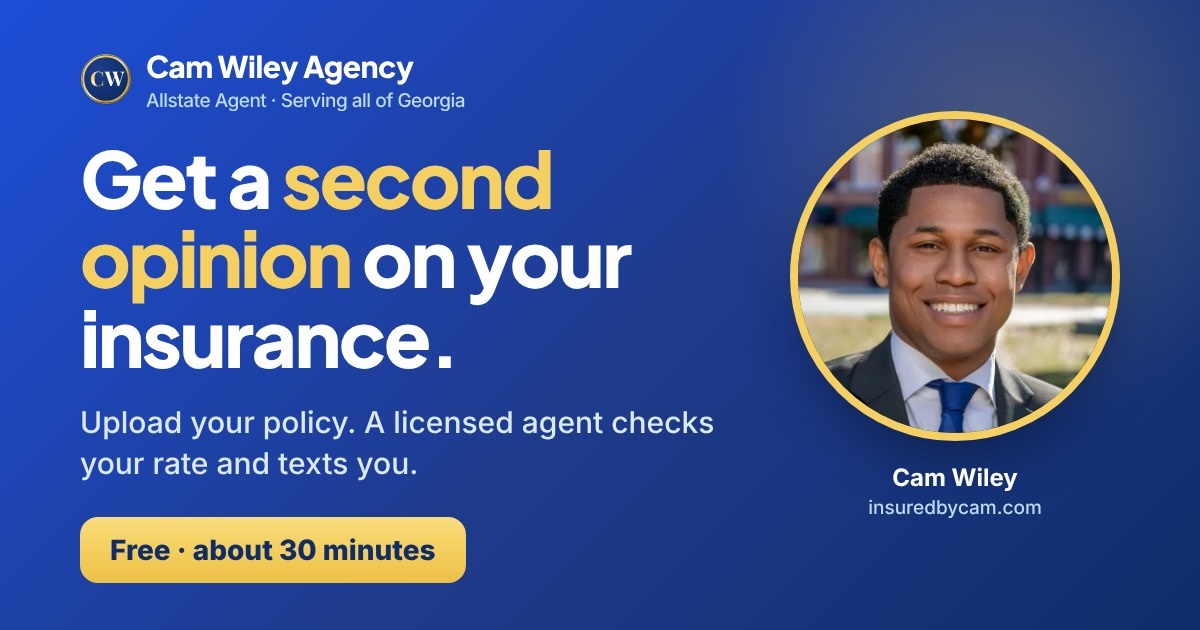
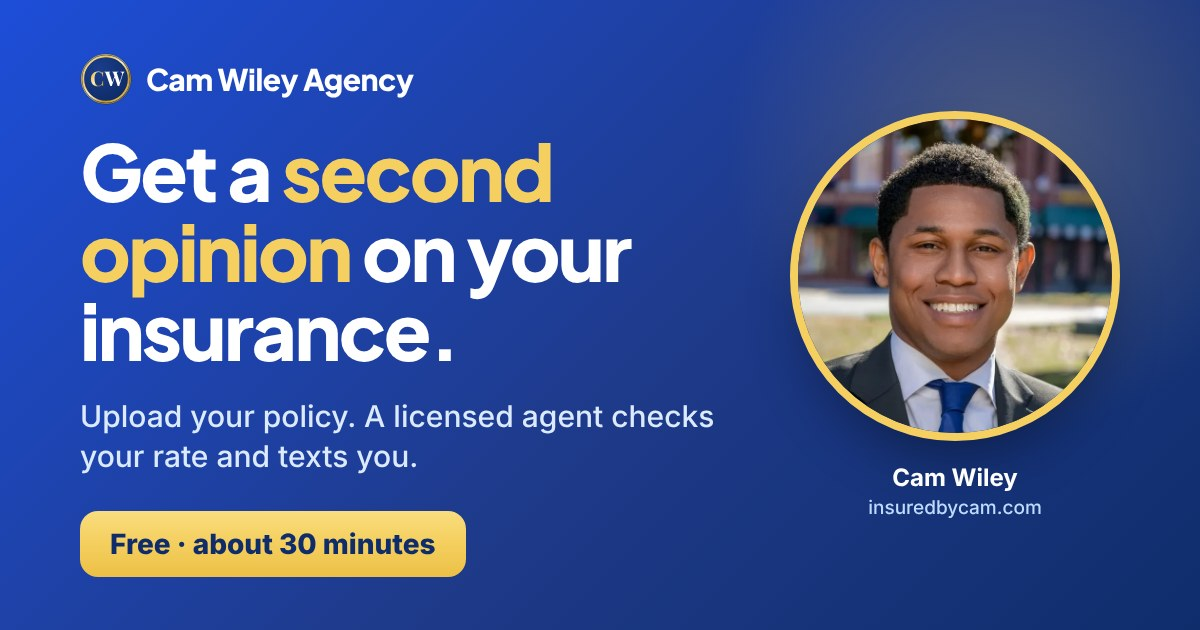
Brand: seal and name only, no line under the name
Claude-Session: https://claude.ai/code/session_01ALNZAc94dnod2U2WV7PUZi

diff --git a/src/components/BrandLogo.jsx b/src/components/BrandLogo.jsx
@@ -2,8 +2,8 @@
 // The brand: the Cam Wiley Agency seal (small form), "Cam Wiley Agency", and a line
 // under it ("Allstate Agent · Serving all of Georgia", editable in the copy editor).
 // `tone`: 'dark' on the blue header, 'light' on white. One size everywhere, so it always
-// reads as the same logo. `tagline` adds the line; only the main site header uses it
-// (the menu, Rate Check steps, partner portal and agency app show seal and name only).
+// reads as the same logo. `tagline` adds the line under the name (unused for now: the
+// seal and name stand alone everywhere).
 import { useId } from 'react';
 import { T } from './SiteCopy';
 

diff --git a/src/components/ConsumerNav.jsx b/src/components/ConsumerNav.jsx
@@ -41,7 +41,7 @@ export function ConsumerNav({ current }) {
 
   return (
     <header className="flex items-center justify-between gap-2 pt-5 lg:pt-7">
-      <Link to="/" aria-label="Cam Wiley Agency home" className="min-w-0"><BrandLogo tagline /></Link>
+      <Link to="/" aria-label="Cam Wiley Agency home" className="min-w-0"><BrandLogo /></Link>
       <div className="flex items-center gap-1">
         <nav aria-label="insuredbycam" className="hidden items-center gap-1 whitespace-nowrap text-sm font-semibold sm:flex">
           {PAGES.map(([key, to, label]) => (key === current
